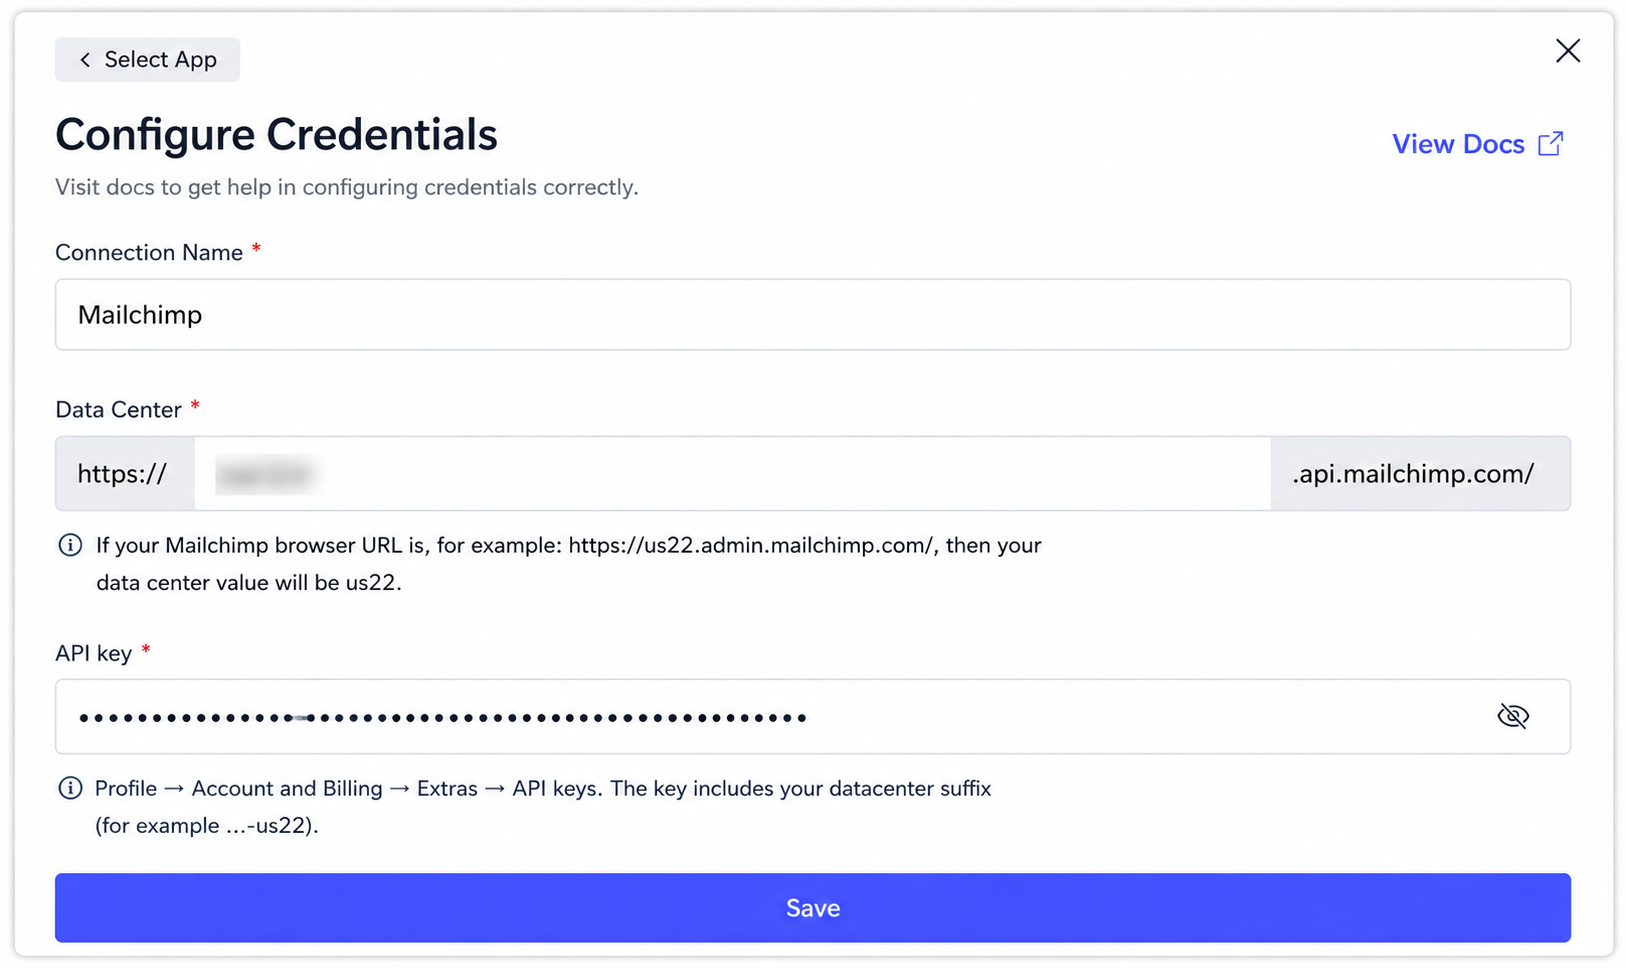
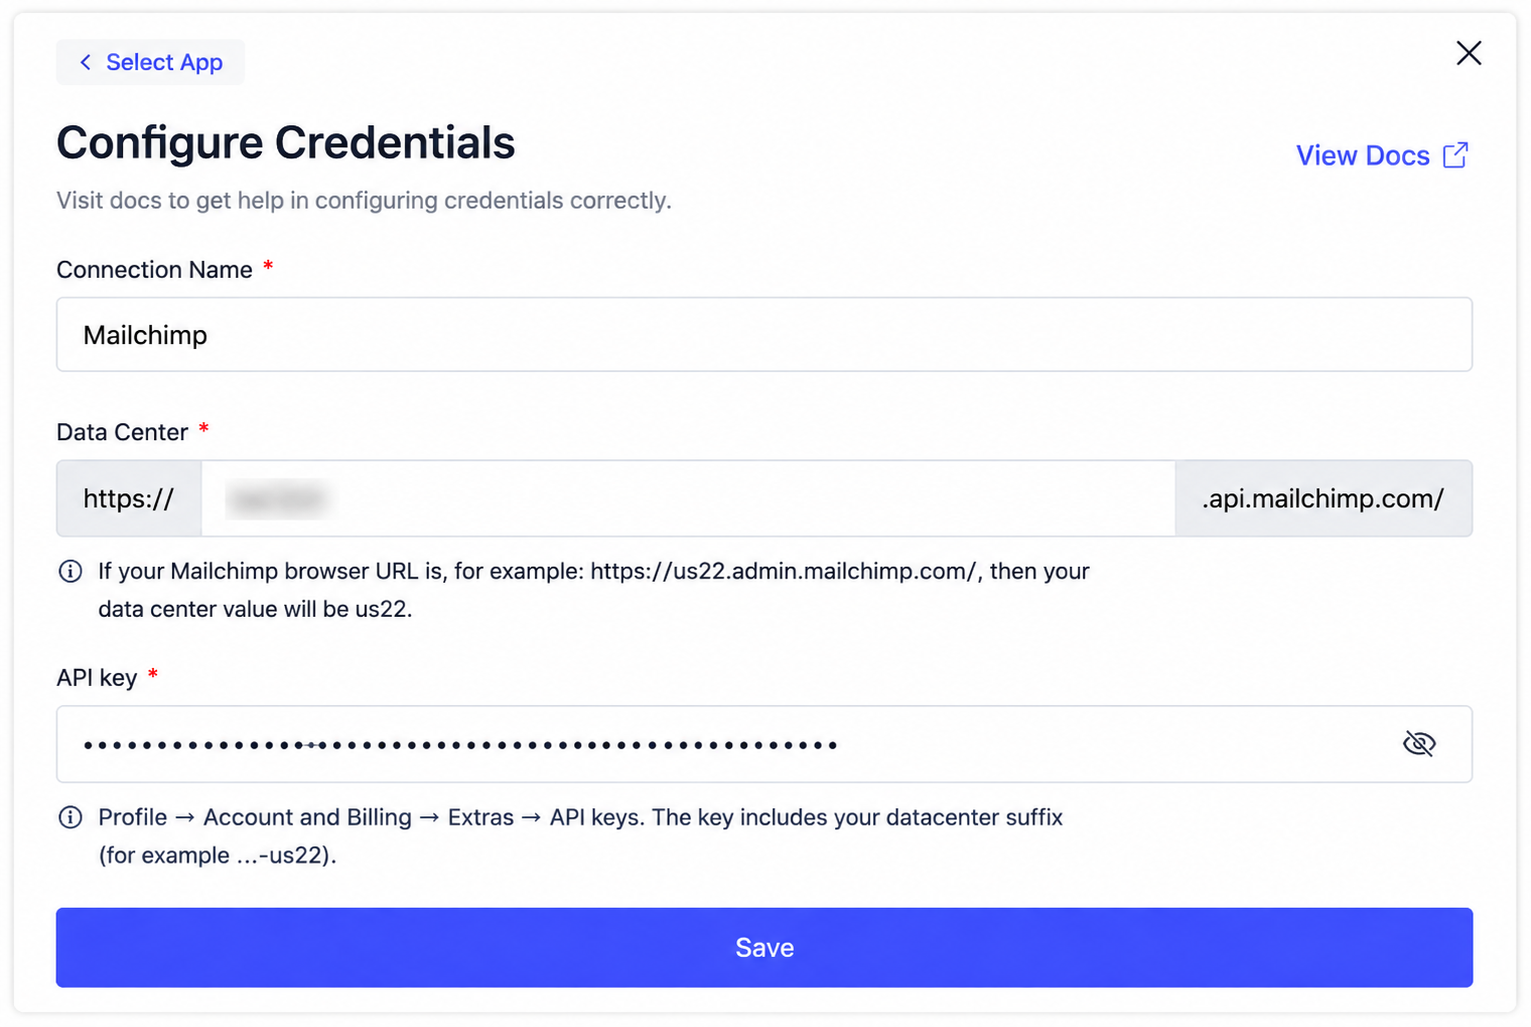
Enhance Mailchimp documentation with improved image attributes and API key storage note

diff --git a/docs/app_integrations/mailchimp.md b/docs/app_integrations/mailchimp.md
@@ -26,9 +26,9 @@ Before setting up your Mailchimp credential in appse ai, ensure that you have ac
 
 #### 1. Log in to Mailchimp
 
-Log in to your Mailchimp account.
+- Log in to your Mailchimp account.
 
-<img src="/img/credentials/mailchimp/mailchimp-login.png" alt="Mailchimp Login" width="700"/>
+<img src="/img/credentials/mailchimp/mailchimp-login.png" alt="Mailchimp Login" width="700" height="500"/>
 
 ---
 
@@ -72,7 +72,9 @@ In the API Keys section:
 
 <img src="/img/credentials/mailchimp/mailchimp-copy-apikey.png" alt="Mailchimp copy API key screen" width="700"/>
 
-> **Note**: Store the API key securely. It provides access to your Mailchimp account APIs.
+:::info
+Store the API key securely. It provides access to your Mailchimp account APIs.
+:::
 
 ---
 